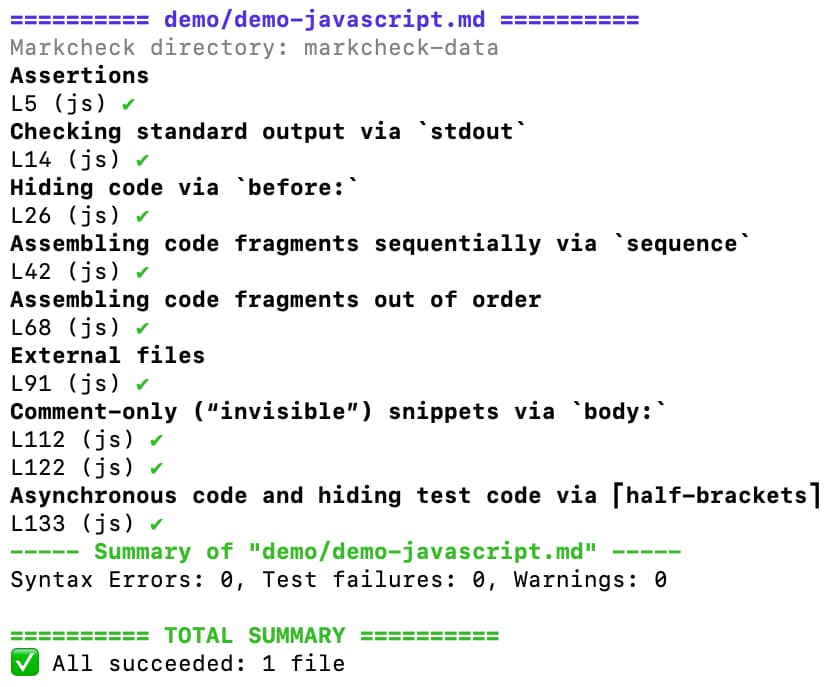
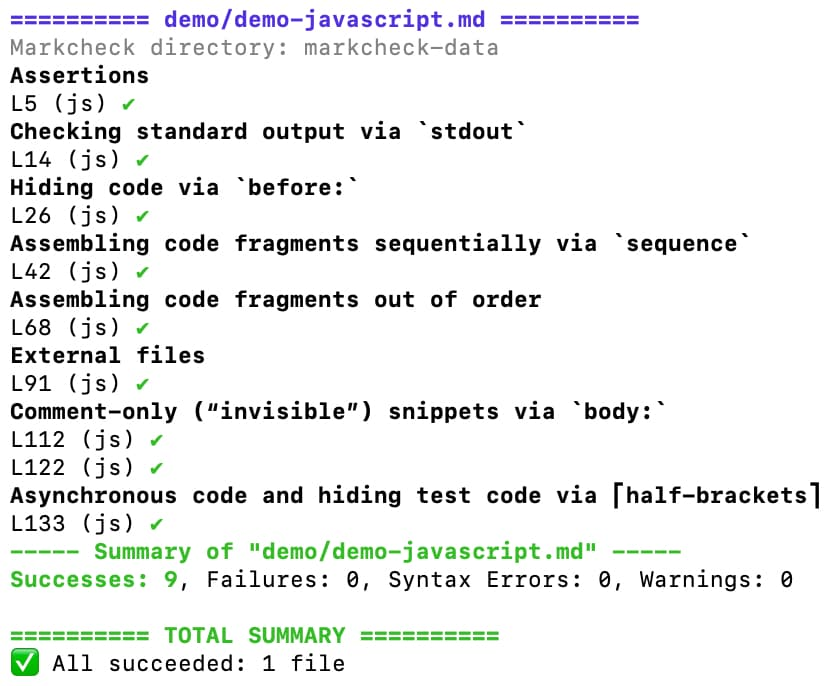
Update quick start so that it shows the current output

diff --git a/doc/manual/quick-start.md b/doc/manual/quick-start.md
@@ -13,7 +13,7 @@ npx markcheck demo/demo-javascript.md
 
 The second command produces the following output. The lines with line numbers refer to code blocks and their languages. The bold lines between them are the most recent headings before the code blocks.
 
-<img src="screenshot-markcheck.jpg" width="415.5" height="343.5" alt="Screenshot of Markcheck output with colors, bold letters, etc. A unstyled version of the output is shown below.">
+<img src="screenshot-markcheck.jpg" width="415.5" height="343.5" alt="Screenshot of Markcheck output with colors, bold letters, etc. An unstyled version of the output is shown below.">
 
 Unstyled version of the previous screenshot:
 
@@ -38,7 +38,7 @@ L122 (js) ✔
 Asynchronous code and hiding test code via ⎡half-brackets⎤
 L133 (js) ✔
 ----- Summary of "demo/demo-javascript.md" -----
-Syntax Errors: 0, Test failures: 0, Warnings: 0
+Successes: 9, Failures: 0, Syntax Errors: 0, Warnings: 0
 
 ========== TOTAL SUMMARY ==========
 ✅ All succeeded: 1 file
